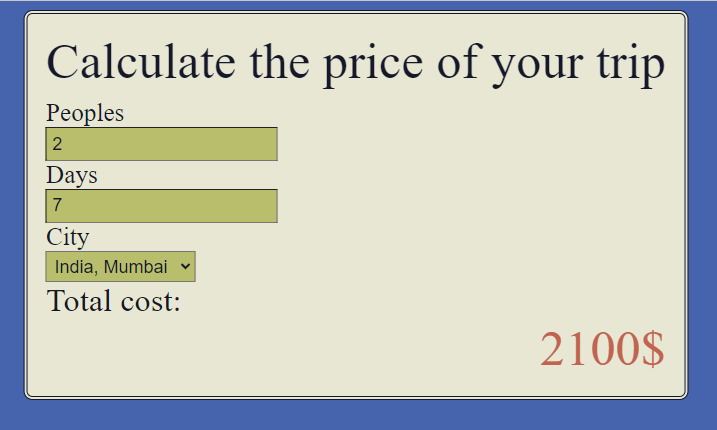
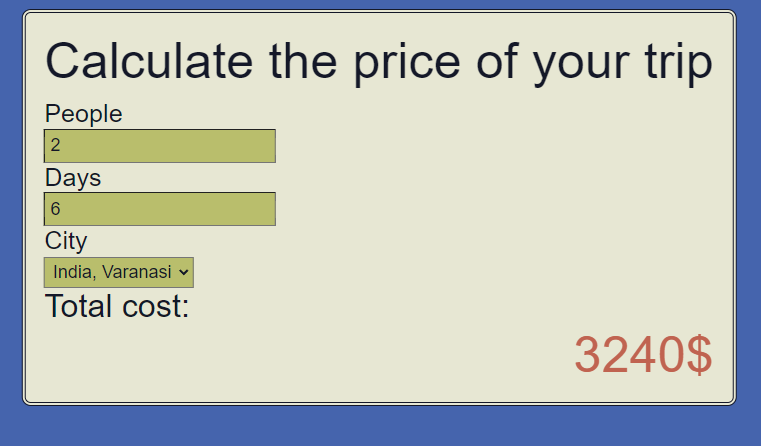
optimise: to use map for inputs

Changed region(s): [[0.0307, 0.0, 0.9819, 0.9372]]

diff --git a/script.js b/script.js
@@ -4,15 +4,18 @@ window.addEventListener("DOMContentLoaded", function () {
   let personsInput = document.querySelectorAll(".counter-block-input")[0],
     daysInput = document.querySelectorAll(".counter-block-input")[1],
     placeInput = document.getElementById("select"),
-    priceOutput = document.getElementById("total"),
-    //values for calculation**
-    persons = 0,
-    days = 0,
-    priceToShow = 0,
-    locationPrice = 1,
+    priceOutput = document.getElementById("total");
+
+  //values for calculation**
+  const data = {
+    persons: 0,
+    days: 0,
+    priceToShow: 0,
+    locationPrice: 1,
     // to change according to price 1 day for 1 person.
     //see html -> id="select" -> value="1" to increase costs for other places
-    servicePrice = 150;
+    servicePrice: 150,
+  };
   //**values for calculation
 
   // function to check input != 0 or ""
@@ -24,49 +27,35 @@ window.addEventListener("DOMContentLoaded", function () {
       personsInput.value == "0"
     );
   }
-
   //function to update values for calculation
-  function updateValues() {
-    days = daysInput.value;
-    persons = personsInput.value;
-    locationPrice = placeInput[placeInput.selectedIndex].value;
-    priceToShow = days * persons * servicePrice * locationPrice;
-  }
+  const updateState = (input, value) => {
+    data[value] = input.value;
+    data.priceToShow =
+      data.persons * data.days * data.locationPrice * data.servicePrice;
+  };
 
   // change event on persons field
-  personsInput.addEventListener("change", function () {
-    updateValues();
-    if (checkInput()) {
-      priceOutput.innerText = 0;
-    } else {
-      priceOutput.innerText = `${priceToShow}$`;
-    }
-    console.log(priceToShow);
-    console.log(locationPrice);
+  personsInput.addEventListener("change", () => {
+    updateState(personsInput, "persons");
+    checkInput()
+      ? (priceOutput.innerText = 0)
+      : (priceOutput.innerText = `${data.priceToShow}$`);
   });
 
   // change event on days field
-  daysInput.addEventListener("change", function () {
-    updateValues();
-    if (checkInput()) {
-      priceOutput.innerText = 0;
-    } else {
-      priceOutput.innerText = `${priceToShow}$`;
-    }
-    console.log(priceToShow);
-    console.log(locationPrice);
+  daysInput.addEventListener("change", () => {
+    updateState(daysInput, "days");
+    checkInput()
+      ? (priceOutput.innerText = 0)
+      : (priceOutput.innerText = `${data.priceToShow}$`);
   });
 
   // change event on places field
-  placeInput.addEventListener("change", function () {
-    updateValues();
-    if (checkInput()) {
-      priceOutput.innerText = 0;
-    } else {
-      priceOutput.innerText = `${priceToShow}$`;
-    }
-    console.log(priceToShow);
-    console.log(locationPrice);
+  placeInput.addEventListener("change", () => {
+    updateState(placeInput, "locationPrice");
+    checkInput()
+      ? (priceOutput.innerText = 0)
+      : (priceOutput.innerText = `${data.priceToShow}$`);
   });
   //#endregion
 });

diff --git a/index.html b/index.html
@@ -11,7 +11,7 @@
     <div class="counter" id="price">
         <div class="counter-title">Calculate the price of your trip</div>
         <div class="counter-block">
-            <div class="counter-block-option">Peoples</div>
+            <div class="counter-block-option">People</div>
             <input type="number" min="1" step="1" class="counter-block-input">
         </div>
         <div class="counter-block">

diff --git a/style.css b/style.css
@@ -19,6 +19,7 @@ body {
   flex-direction: column;
   border-radius: 10px;
   color: #141829;
+  font-family: 'Montserrat', sans-serif;
 }
 .counter-title {
   font-size: 56px;
